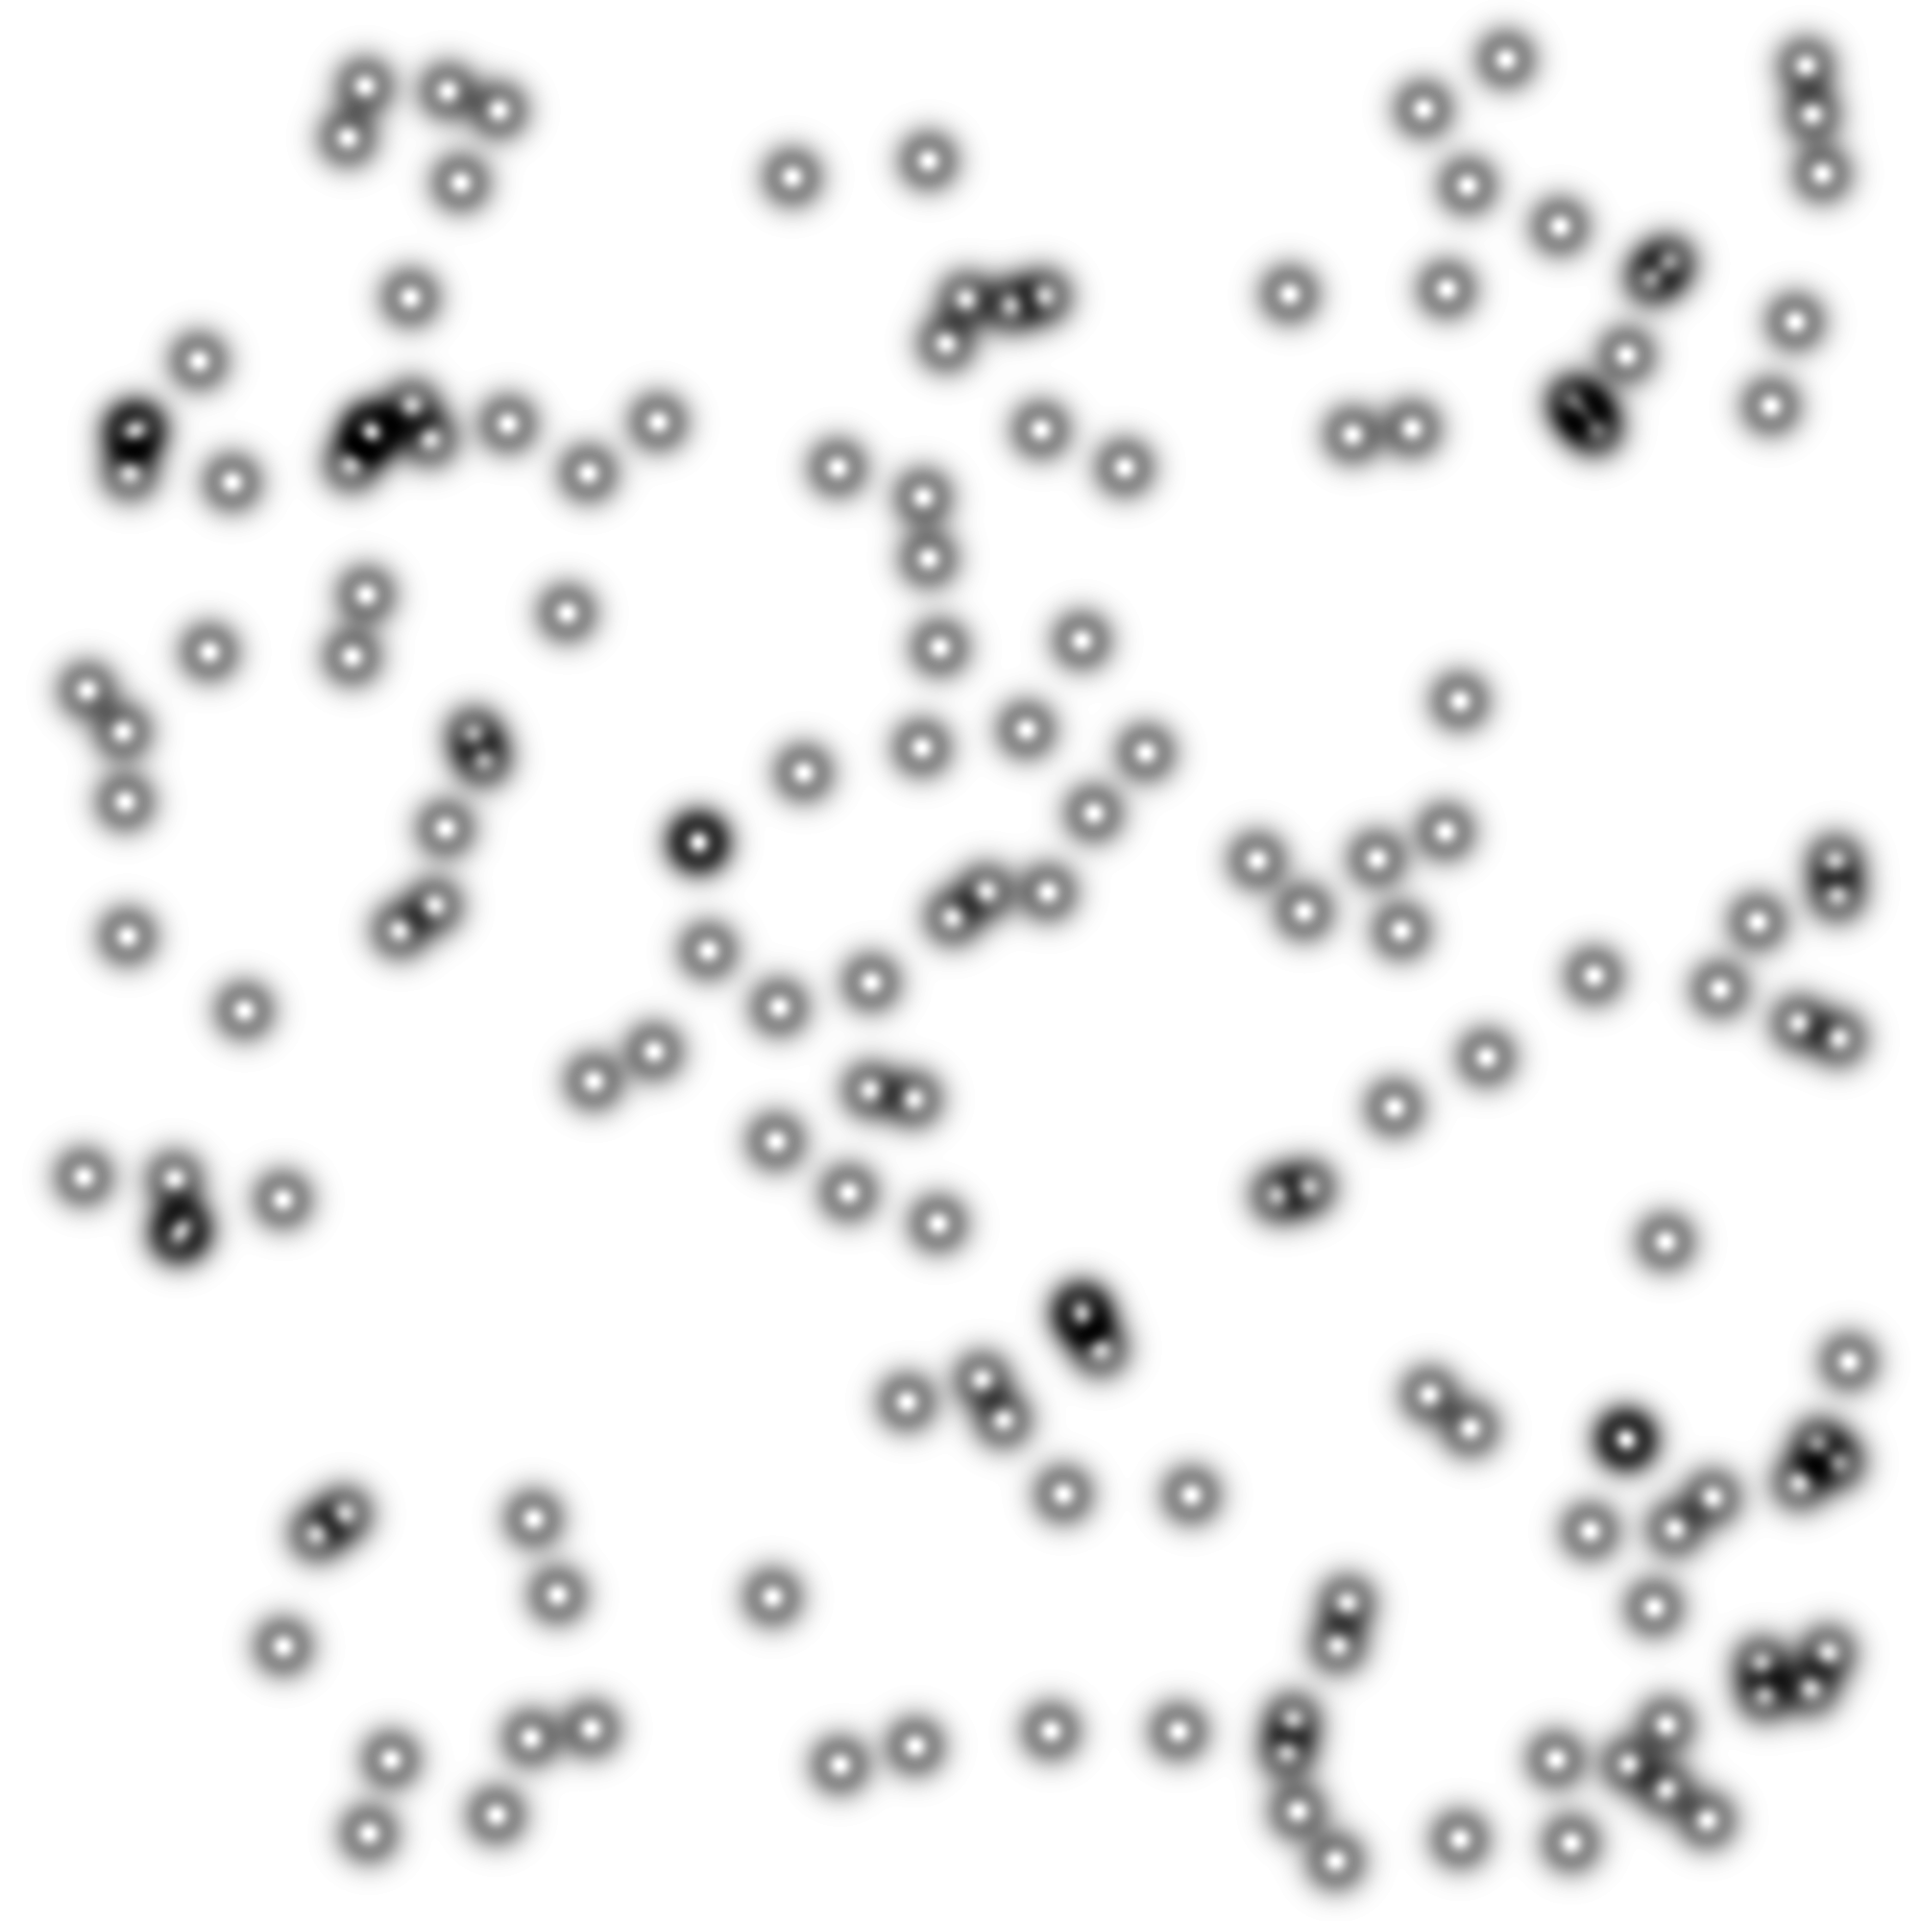
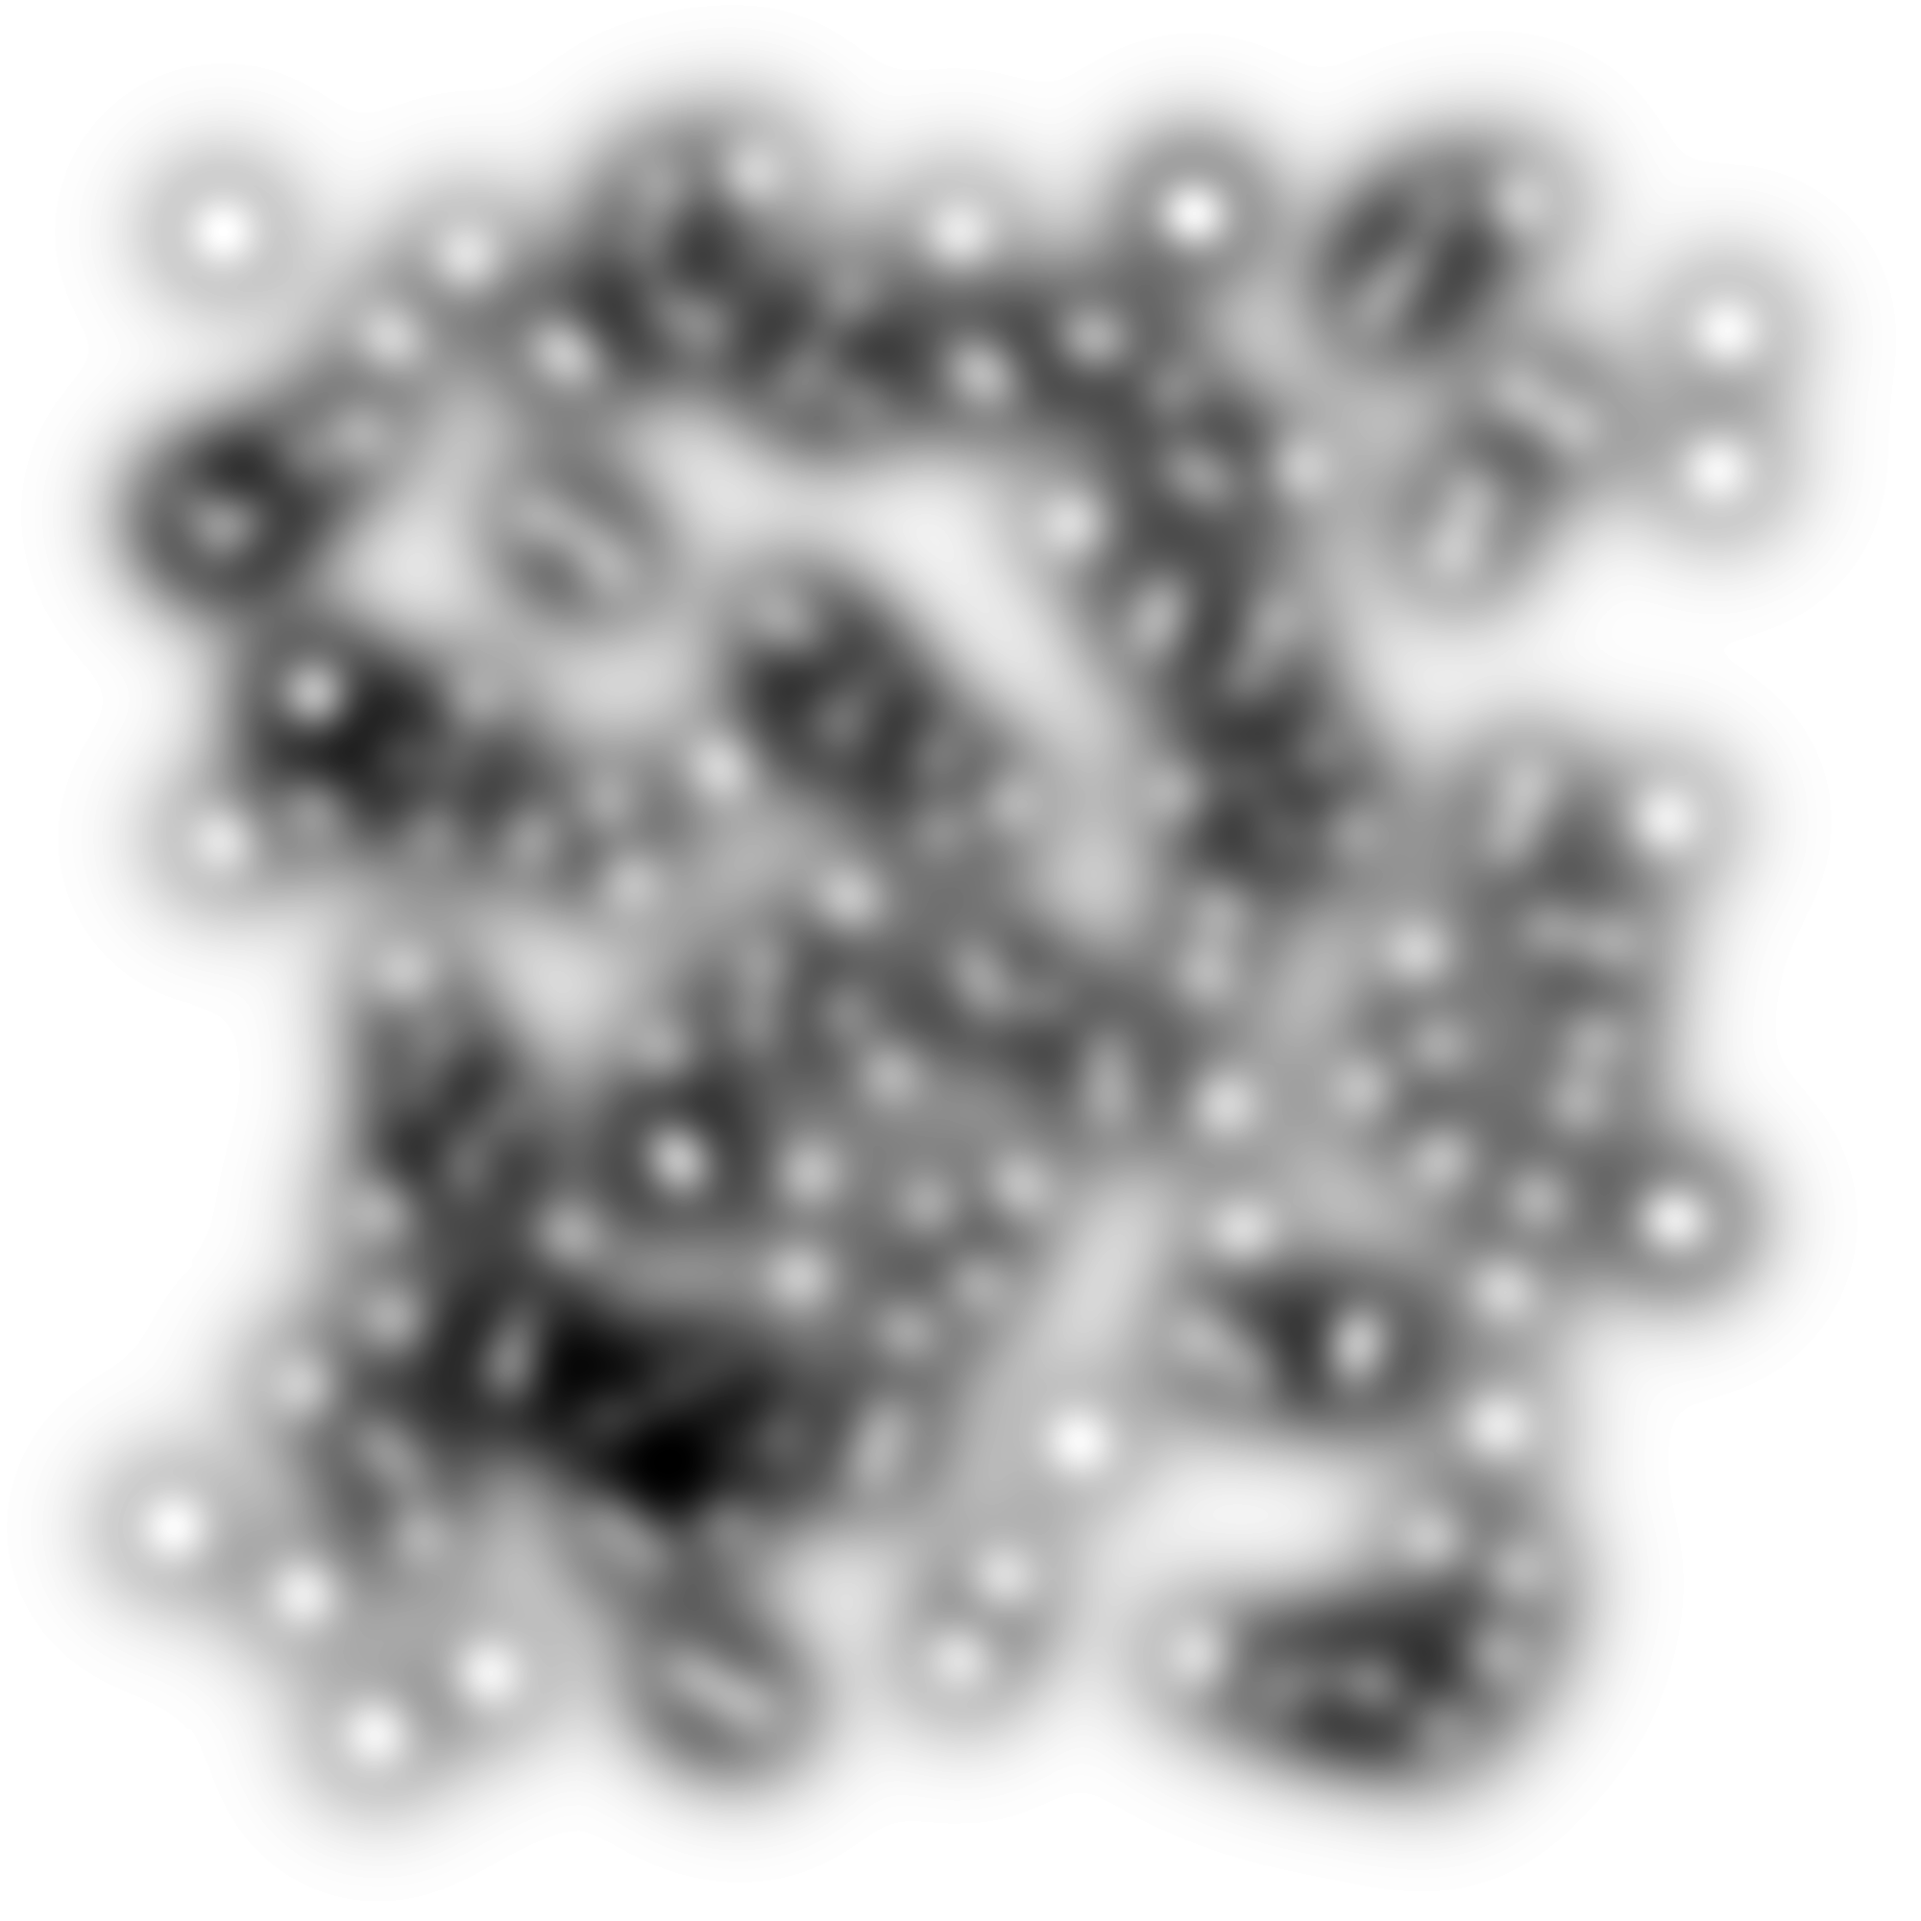
Changed size of QR

diff --git a/rust_version/src/main.rs b/rust_version/src/main.rs
@@ -16,16 +16,16 @@ const RME: f64 = 0.176;
 // Input parameters
 const ME: f64 = 0.067; // electron effective mass
 const TAU: f64 = 4000.0; // scattering time, fs
-const U0: f64 = -0.2; // depth of QD potential well, eV
-const A: f64 = 20.0; // quantum dot size x, nm
-const B: f64 = 10.0; // quantum dot size y, nm
+const U0: f64 = -0.1; // depth of QD potential well, eV
+const A: f64 = 60.0; // quantum dot size x, nm
+const B: f64 = 30.0; // quantum dot size y, nm
 const L: f64 = 2000.0; // size of calculation area, nm
 const NP: usize = 2000; // number of grid points for plotting U(x,y) map
 const WIDTH: usize = 2000; // U(x,y) png map resolution
 const ELECTRIC_MAX: f64 = 5.0 * 1e-4; // maximum electric field, eV/nm
 const VMAX: f64 = 5.0;
 const IV_POINTS: usize = 50; // number of points on IV curve
-const MAGNETIC: f64 = 0.0; // magnetic field induction,
+const MAGNETIC: f64 = 0.0; // magnetic field induction, eV*fs/nm^2, max = 10.0 * 1e-3;
 const NQD: usize = 250; // number of quantum dots (nanostructures)
 const DT: f64 = 1.0; // delta_time, fs
 const NE: usize = 500; // number of electrons
